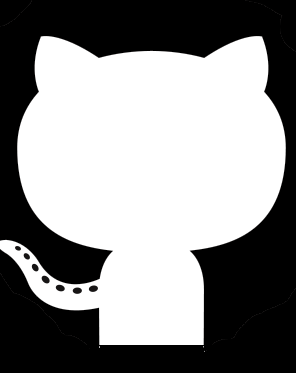
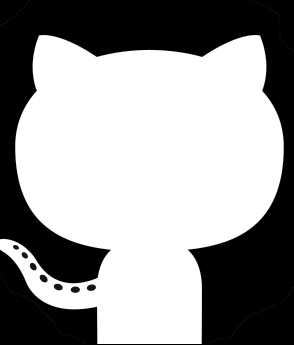
resume view done

diff --git a/src/app/navbar/navbar.component.html b/src/app/navbar/navbar.component.html
@@ -1,7 +1,7 @@
 <header>
     <nav style="background-color:rgb(0, 0, 0)" class="navbar navbar-expand-lg navbar-light bg-black" id="navbar">
         <div class="container-fluid">
-            <a href=""><img  width="95" alt="Angular Logo" src="assets\images\newLogo.jpg" /></a>
+            <a href=""><img   width="95" alt="Angular Logo" src="assets\images\newLogo.jpg" /></a>
           <button class="navbar-toggler" type="button" data-bs-toggle="collapse" data-bs-target="#navbarSupportedContent" aria-controls="navbarSupportedContent" aria-expanded="false" aria-label="Toggle navigation">
             <span class="navbar-toggler-icon"></span>
           </button>
@@ -21,7 +21,8 @@
               </li>
               <div class="divider"></div>
               <li class="nav-item">
-                <a (click)="resume()" class="btn btn-outline-light" tabindex="-1" aria-disabled="true">Resume</a>
+                <a href="https://docs.google.com/document/d/1TMYcu90iuk8G2seiSquPjMu9E7xuO6Y1gM08qtxNpGo/edit?usp=sharing" target="_blank" class="btn btn-outline-warning" tabindex="-1" aria-disabled="true">
+                Resume</a>
               </li>
             </ul>
             <div  class="divider"></div>
@@ -37,40 +38,41 @@
             
           </div>
         </div>
-        
-           
-        
+                
         <div>
             <div class="container-fluid">
               <button class="navbar-toggler" type="button" data-bs-toggle="collapse" data-bs-target="#navbarSupportedContent" aria-controls="navbarSupportedContent" aria-expanded="false" aria-label="Toggle navigation">
                 <span class="navbar-toggler-icon"></span>
               </button>
               <div class="collapse navbar-collapse" id="navbarSupportedContent">
+                  
                 <ul class="navbar-nav me-auto mb-2 mb-lg-0">
                     <div class="divider"></div>
                     
                   <li class="nav-item">
-                      <a  onclick="window.open('https://www.linkedin.com/in/kushagra-bisht-a174891a4')" >
-                    <img width="48" class="btn btn-outline-light"   aria-current="page" src="assets\images\linkedin.jpg">
+                      <a  href="https://www.linkedin.com/in/kushagra-bisht-a174891a4" target="_blank" >
+                    <img width="35" height="35"   aria-current="page" src="assets\images\linkedin.jpg">
                     </a>
                   </li>
                   <div class="divider"></div>
-                  
+                  <div class="divider"></div>
                   <li class="nav-item">
-                    <a onclick="window.open('https://www.instagram.com/bishtkushagra/')" >
-                    <img width="48" class="btn btn-outline-light"  aria-current="page" src="assets\images\instagram.jpg">
+                    <a href="https://www.instagram.com/bishtkushagra/" target="_blank" >
+                    <img width="35" height="35"  aria-current="page" src="assets\images\instagram.jpg">
                     </a>
                 </li>
                   <div class="divider"></div>
+                  <div class="divider"></div>
                   <li class="nav-item">
-                    <a onclick="window.open('https://www.facebook.com/kushagra.bisht/')" >
-                    <img  width="48" class="btn btn-outline-light"  aria-current="page" src="assets\images\facebook.jpg">
+                    <a href="https://www.facebook.com/kushagra.bisht/" target="_blank">
+                    <img  width="35" height="35"  aria-current="page" src="assets\images\facebook.png">
                     </a>
                 </li>
                   <div class="divider"></div>
+                  <div class="divider"></div>
                   <li class="nav-item">
-                    <a onclick="window.open('https://github.com/KushagraBisht')" >
-                    <img  width="44" class="btn btn-outline-light"  aria-current="page" src="assets\images\github.png">
+                    <a href="https://github.com/KushagraBisht" target="_blank" >
+                    <img  width="35" height="38" aria-current="page" src="assets\images\github.png">
                  </a>
                 </li>
                 </ul>

diff --git a/src/app/app.module.ts b/src/app/app.module.ts
@@ -7,6 +7,7 @@ import { HomeComponent } from './home/home.component';
 import { NavbarComponent } from './navbar/navbar.component';
 import { ExperienceComponent } from './experience/experience.component';
 import { ContactComponent } from './contact/contact.component';
+import  {  PdfViewerModule  }  from  'ng2-pdf-viewer';
 @NgModule({
   declarations: [
     AppComponent,
@@ -19,6 +20,7 @@ import { ContactComponent } from './contact/contact.component';
   imports: [
     BrowserModule,
     AppRoutingModule,
+    PdfViewerModule
   ],
   providers: [],
   bootstrap: [AppComponent]

diff --git a/src/app/home/home.component.html b/src/app/home/home.component.html
@@ -2,6 +2,11 @@
     <div style="color: gold;" ALIGN="left">
     <h5>Hi, My Name is,</h5>
 </div>
+<!-- <img  width="405" ALIGN="right" alt="My Pic" src="assets\images\myPic.PNG"> -->
 <h1 style="font-size:5vw">Kushagra Bisht.</h1>
-<h1 style="font-size:4vw">I am a Software Developer for fun.</h1>
+<h1 style="font-size:4vw">Software Developer for fun.</h1>
+<div class="divider"></div>
+<div style="color: rgb(253, 253, 253)">
+<p style="font-size : 1.5vw">I am a software developer from India.<br> Currently pursuing my B.Tech and looking <br> for opportunities.</p>
+</div>
 </div>

diff --git a/src/app/navbar/navbar.component.ts b/src/app/navbar/navbar.component.ts
@@ -8,7 +8,7 @@ import { Router } from '@angular/router';
 export class NavbarComponent implements OnInit {
 
   constructor(private router : Router) { }
-
+  pdfSrc="https://docs.google.com/document/d/1TMYcu90iuk8G2seiSquPjMu9E7xuO6Y1gM08qtxNpGo/edit?usp=sharing";
   ngOnInit(): void {
   }
   aboutMe(){
@@ -25,6 +25,5 @@ export class NavbarComponent implements OnInit {
 
             resume(){
                 console.log("Download");
-                
                 }
 }

diff --git a/src/app/home/home.component.css b/src/app/home/home.component.css
@@ -1,6 +1,6 @@
 .divider{
     width:20px;
-    height:auto;
+    height:20px;
     display:inline-block;
 }
 

diff --git a/src/app/navbar/navbar.component.css b/src/app/navbar/navbar.component.css
@@ -5,5 +5,5 @@
 }
 
 .img1 {
-    background-color : blue;
+    background-color : rgb(0, 0, 0);
 }
